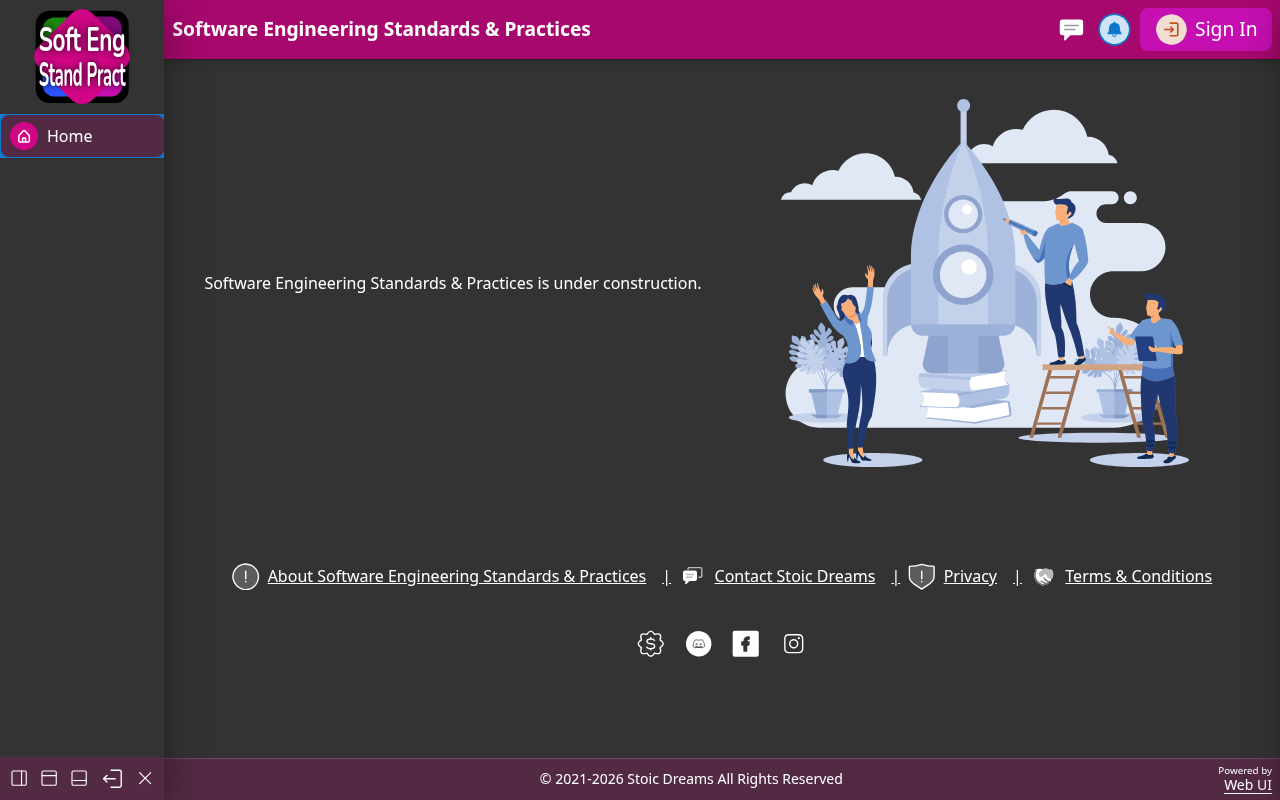
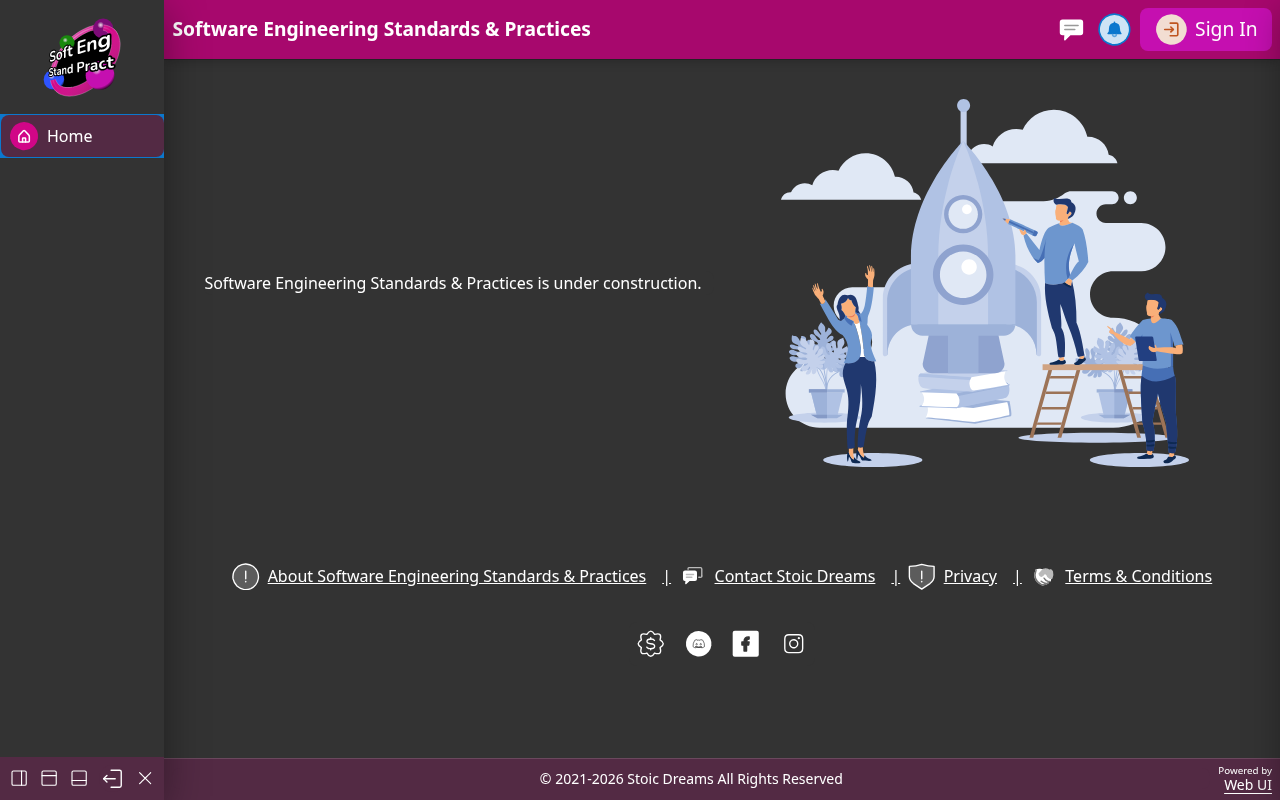
Various updates

Changed region(s): [[0.0, 0.0, 0.125, 0.1562]]

diff --git a/webapp/pages/index.html b/webapp/pages/index.html
@@ -8,7 +8,9 @@
 	<!-- Google tag (gtag.js) -->
 	<script async src="https://www.googletagmanager.com/gtag/js?id=G-ZQ38J29J0H"></script>
 	<script>
-		if (location.hostname !== 'localhost') {
+		// Pages opened on this machine or another device on the home network load Web UI from the local MyFiCDN server and skip analytics.
+		window.webuiLocal = /^(localhost|127\.0\.0\.1|\[::1\]|10(\.\d+){3}|192\.168(\.\d+){2}|172\.(1[6-9]|2\d|3[01])(\.\d+){2}|[\w-]+\.local)$/.test(location.hostname);
+		if (!webuiLocal) {
 			window.dataLayer = window.dataLayer || [];
 			function gtag() { dataLayer.push(arguments); }
 			gtag('js', new Date());
@@ -21,7 +23,7 @@
 	<meta name="robots" content="index, follow">
 	<base href="/" />
 	<script type="text/javascript">
-		navigator.serviceWorker.register('service-worker.min.js');
+		navigator.serviceWorker?.register('service-worker.min.js');
 	</script>
 
 	<link rel="dns-prefetch" href="https://cdn.myfi.ws" />
@@ -29,13 +31,14 @@
 	<link rel="preconnect" href="https://cdn.myfi.ws">
 	<link rel="preconnect" href="https://api.myfi.ws">
 
-	<link href="Logo.svg?v=faf902400f" rel="icon" type="image/svg+xml" sizes="any" />
+	<link href="Logo.svg?v=49ffcfa169" rel="icon" type="image/svg+xml" sizes="any" />
 	<link rel="manifest" href="app.webmanifest?v=48ab5d6879">
 
 	<script>
-		// Web UI loads from the local MyFiCDN server (MyFiCDN/PowerShell/RunLocal.ps1) when the site runs on localhost,
+		// Web UI loads from the local MyFiCDN server (MyFiCDN/PowerShell/RunLocal.ps1) when the site runs locally (through /webui-cdn/ on
+		// another device, which RunLocal.ps1 -Network passes on to it),
 		// so framework changes show before they are published, and from cdn.myfi.ws everywhere else.
-		window.webuiCdn = /^(localhost|127\.0\.0\.1|\[::1\])$/.test(location.hostname) ? 'http://localhost:3180/' : 'https://cdn.myfi.ws/';
+		window.webuiCdn = /^(localhost|127\.0\.0\.1|\[::1\])$/.test(location.hostname) ? 'http://localhost:3180/' : webuiLocal ? '/webui-cdn/' : 'https://cdn.myfi.ws/';
 		document.write('<link href="' + webuiCdn + 'css/webui.min.css" rel="stylesheet" />');
 	</script>
 	<link href="css/app.min.css?v=a2e2857ade" rel="stylesheet" />
@@ -83,7 +86,7 @@
 	<link rel="preload" as="script" href="https://cdn.myfi.ws/webui/stoic-dreams-logo.min.js" crossorigin="anonymous" />
 	<link rel="preload" as="script" href="https://cdn.myfi.ws/webui/stoic-social-links.min.js" crossorigin="anonymous" />
 	<link rel="preload" as="script" href="https://cdn.myfi.ws/webui/under-construction.min.js" crossorigin="anonymous" />
-	<meta name="webui-prerender" content="10d8d774d9">
+	<meta name="webui-prerender" content="d6d98fdd98">
 </head>
 
 <body>

diff --git a/webapp/pages/about.html b/webapp/pages/about.html
@@ -8,7 +8,9 @@
 	<!-- Google tag (gtag.js) -->
 	<script async src="https://www.googletagmanager.com/gtag/js?id=G-ZQ38J29J0H"></script>
 	<script>
-		if (location.hostname !== 'localhost') {
+		// Pages opened on this machine or another device on the home network load Web UI from the local MyFiCDN server and skip analytics.
+		window.webuiLocal = /^(localhost|127\.0\.0\.1|\[::1\]|10(\.\d+){3}|192\.168(\.\d+){2}|172\.(1[6-9]|2\d|3[01])(\.\d+){2}|[\w-]+\.local)$/.test(location.hostname);
+		if (!webuiLocal) {
 			window.dataLayer = window.dataLayer || [];
 			function gtag() { dataLayer.push(arguments); }
 			gtag('js', new Date());
@@ -21,7 +23,7 @@
 	<meta name="robots" content="index, follow">
 	<base href="/" />
 	<script type="text/javascript">
-		navigator.serviceWorker.register('service-worker.min.js');
+		navigator.serviceWorker?.register('service-worker.min.js');
 	</script>
 
 	<link rel="dns-prefetch" href="https://cdn.myfi.ws" />
@@ -29,13 +31,14 @@
 	<link rel="preconnect" href="https://cdn.myfi.ws">
 	<link rel="preconnect" href="https://api.myfi.ws">
 
-	<link href="Logo.svg?v=faf902400f" rel="icon" type="image/svg+xml" sizes="any" />
+	<link href="Logo.svg?v=49ffcfa169" rel="icon" type="image/svg+xml" sizes="any" />
 	<link rel="manifest" href="app.webmanifest?v=48ab5d6879">
 
 	<script>
-		// Web UI loads from the local MyFiCDN server (MyFiCDN/PowerShell/RunLocal.ps1) when the site runs on localhost,
+		// Web UI loads from the local MyFiCDN server (MyFiCDN/PowerShell/RunLocal.ps1) when the site runs locally (through /webui-cdn/ on
+		// another device, which RunLocal.ps1 -Network passes on to it),
 		// so framework changes show before they are published, and from cdn.myfi.ws everywhere else.
-		window.webuiCdn = /^(localhost|127\.0\.0\.1|\[::1\])$/.test(location.hostname) ? 'http://localhost:3180/' : 'https://cdn.myfi.ws/';
+		window.webuiCdn = /^(localhost|127\.0\.0\.1|\[::1\])$/.test(location.hostname) ? 'http://localhost:3180/' : webuiLocal ? '/webui-cdn/' : 'https://cdn.myfi.ws/';
 		document.write('<link href="' + webuiCdn + 'css/webui.min.css" rel="stylesheet" />');
 	</script>
 	<link href="css/app.min.css?v=a2e2857ade" rel="stylesheet" />
@@ -84,7 +87,7 @@
 	<link rel="preload" as="script" href="https://cdn.myfi.ws/webui/page-footer.min.js" crossorigin="anonymous" />
 	<link rel="preload" as="script" href="https://cdn.myfi.ws/webui/stoic-dreams-logo.min.js" crossorigin="anonymous" />
 	<link rel="preload" as="script" href="https://cdn.myfi.ws/webui/stoic-social-links.min.js" crossorigin="anonymous" />
-	<meta name="webui-prerender" content="00adf94309">
+	<meta name="webui-prerender" content="e0ee5c0330">
 </head>
 
 <body>

diff --git a/webapp/pages/contact.html b/webapp/pages/contact.html
@@ -8,7 +8,9 @@
 	<!-- Google tag (gtag.js) -->
 	<script async src="https://www.googletagmanager.com/gtag/js?id=G-ZQ38J29J0H"></script>
 	<script>
-		if (location.hostname !== 'localhost') {
+		// Pages opened on this machine or another device on the home network load Web UI from the local MyFiCDN server and skip analytics.
+		window.webuiLocal = /^(localhost|127\.0\.0\.1|\[::1\]|10(\.\d+){3}|192\.168(\.\d+){2}|172\.(1[6-9]|2\d|3[01])(\.\d+){2}|[\w-]+\.local)$/.test(location.hostname);
+		if (!webuiLocal) {
 			window.dataLayer = window.dataLayer || [];
 			function gtag() { dataLayer.push(arguments); }
 			gtag('js', new Date());
@@ -21,7 +23,7 @@
 	<meta name="robots" content="index, follow">
 	<base href="/" />
 	<script type="text/javascript">
-		navigator.serviceWorker.register('service-worker.min.js');
+		navigator.serviceWorker?.register('service-worker.min.js');
 	</script>
 
 	<link rel="dns-prefetch" href="https://cdn.myfi.ws" />
@@ -29,13 +31,14 @@
 	<link rel="preconnect" href="https://cdn.myfi.ws">
 	<link rel="preconnect" href="https://api.myfi.ws">
 
-	<link href="Logo.svg?v=faf902400f" rel="icon" type="image/svg+xml" sizes="any" />
+	<link href="Logo.svg?v=49ffcfa169" rel="icon" type="image/svg+xml" sizes="any" />
 	<link rel="manifest" href="app.webmanifest?v=48ab5d6879">
 
 	<script>
-		// Web UI loads from the local MyFiCDN server (MyFiCDN/PowerShell/RunLocal.ps1) when the site runs on localhost,
+		// Web UI loads from the local MyFiCDN server (MyFiCDN/PowerShell/RunLocal.ps1) when the site runs locally (through /webui-cdn/ on
+		// another device, which RunLocal.ps1 -Network passes on to it),
 		// so framework changes show before they are published, and from cdn.myfi.ws everywhere else.
-		window.webuiCdn = /^(localhost|127\.0\.0\.1|\[::1\])$/.test(location.hostname) ? 'http://localhost:3180/' : 'https://cdn.myfi.ws/';
+		window.webuiCdn = /^(localhost|127\.0\.0\.1|\[::1\])$/.test(location.hostname) ? 'http://localhost:3180/' : webuiLocal ? '/webui-cdn/' : 'https://cdn.myfi.ws/';
 		document.write('<link href="' + webuiCdn + 'css/webui.min.css" rel="stylesheet" />');
 	</script>
 	<link href="css/app.min.css?v=a2e2857ade" rel="stylesheet" />
@@ -84,7 +87,7 @@
 	<link rel="preload" as="script" href="https://cdn.myfi.ws/webui/page-footer.min.js" crossorigin="anonymous" />
 	<link rel="preload" as="script" href="https://cdn.myfi.ws/webui/stoic-dreams-logo.min.js" crossorigin="anonymous" />
 	<link rel="preload" as="script" href="https://cdn.myfi.ws/webui/stoic-social-links.min.js" crossorigin="anonymous" />
-	<meta name="webui-prerender" content="fd37e75aee">
+	<meta name="webui-prerender" content="c51ac0f765">
 </head>
 
 <body>

diff --git a/webapp/pages/privacy.html b/webapp/pages/privacy.html
@@ -8,7 +8,9 @@
 	<!-- Google tag (gtag.js) -->
 	<script async src="https://www.googletagmanager.com/gtag/js?id=G-ZQ38J29J0H"></script>
 	<script>
-		if (location.hostname !== 'localhost') {
+		// Pages opened on this machine or another device on the home network load Web UI from the local MyFiCDN server and skip analytics.
+		window.webuiLocal = /^(localhost|127\.0\.0\.1|\[::1\]|10(\.\d+){3}|192\.168(\.\d+){2}|172\.(1[6-9]|2\d|3[01])(\.\d+){2}|[\w-]+\.local)$/.test(location.hostname);
+		if (!webuiLocal) {
 			window.dataLayer = window.dataLayer || [];
 			function gtag() { dataLayer.push(arguments); }
 			gtag('js', new Date());
@@ -21,7 +23,7 @@
 	<meta name="robots" content="index, follow">
 	<base href="/" />
 	<script type="text/javascript">
-		navigator.serviceWorker.register('service-worker.min.js');
+		navigator.serviceWorker?.register('service-worker.min.js');
 	</script>
 
 	<link rel="dns-prefetch" href="https://cdn.myfi.ws" />
@@ -29,13 +31,14 @@
 	<link rel="preconnect" href="https://cdn.myfi.ws">
 	<link rel="preconnect" href="https://api.myfi.ws">
 
-	<link href="Logo.svg?v=faf902400f" rel="icon" type="image/svg+xml" sizes="any" />
+	<link href="Logo.svg?v=49ffcfa169" rel="icon" type="image/svg+xml" sizes="any" />
 	<link rel="manifest" href="app.webmanifest?v=48ab5d6879">
 
 	<script>
-		// Web UI loads from the local MyFiCDN server (MyFiCDN/PowerShell/RunLocal.ps1) when the site runs on localhost,
+		// Web UI loads from the local MyFiCDN server (MyFiCDN/PowerShell/RunLocal.ps1) when the site runs locally (through /webui-cdn/ on
+		// another device, which RunLocal.ps1 -Network passes on to it),
 		// so framework changes show before they are published, and from cdn.myfi.ws everywhere else.
-		window.webuiCdn = /^(localhost|127\.0\.0\.1|\[::1\])$/.test(location.hostname) ? 'http://localhost:3180/' : 'https://cdn.myfi.ws/';
+		window.webuiCdn = /^(localhost|127\.0\.0\.1|\[::1\])$/.test(location.hostname) ? 'http://localhost:3180/' : webuiLocal ? '/webui-cdn/' : 'https://cdn.myfi.ws/';
 		document.write('<link href="' + webuiCdn + 'css/webui.min.css" rel="stylesheet" />');
 	</script>
 	<link href="css/app.min.css?v=a2e2857ade" rel="stylesheet" />
@@ -84,7 +87,7 @@
 	<link rel="preload" as="script" href="https://cdn.myfi.ws/webui/page-footer.min.js" crossorigin="anonymous" />
 	<link rel="preload" as="script" href="https://cdn.myfi.ws/webui/stoic-dreams-logo.min.js" crossorigin="anonymous" />
 	<link rel="preload" as="script" href="https://cdn.myfi.ws/webui/stoic-social-links.min.js" crossorigin="anonymous" />
-	<meta name="webui-prerender" content="f09d446f53">
+	<meta name="webui-prerender" content="75a60567ae">
 </head>
 
 <body>

diff --git a/webapp/pages/terms.html b/webapp/pages/terms.html
@@ -8,7 +8,9 @@
 	<!-- Google tag (gtag.js) -->
 	<script async src="https://www.googletagmanager.com/gtag/js?id=G-ZQ38J29J0H"></script>
 	<script>
-		if (location.hostname !== 'localhost') {
+		// Pages opened on this machine or another device on the home network load Web UI from the local MyFiCDN server and skip analytics.
+		window.webuiLocal = /^(localhost|127\.0\.0\.1|\[::1\]|10(\.\d+){3}|192\.168(\.\d+){2}|172\.(1[6-9]|2\d|3[01])(\.\d+){2}|[\w-]+\.local)$/.test(location.hostname);
+		if (!webuiLocal) {
 			window.dataLayer = window.dataLayer || [];
 			function gtag() { dataLayer.push(arguments); }
 			gtag('js', new Date());
@@ -21,7 +23,7 @@
 	<meta name="robots" content="index, follow">
 	<base href="/" />
 	<script type="text/javascript">
-		navigator.serviceWorker.register('service-worker.min.js');
+		navigator.serviceWorker?.register('service-worker.min.js');
 	</script>
 
 	<link rel="dns-prefetch" href="https://cdn.myfi.ws" />
@@ -29,13 +31,14 @@
 	<link rel="preconnect" href="https://cdn.myfi.ws">
 	<link rel="preconnect" href="https://api.myfi.ws">
 
-	<link href="Logo.svg?v=faf902400f" rel="icon" type="image/svg+xml" sizes="any" />
+	<link href="Logo.svg?v=49ffcfa169" rel="icon" type="image/svg+xml" sizes="any" />
 	<link rel="manifest" href="app.webmanifest?v=48ab5d6879">
 
 	<script>
-		// Web UI loads from the local MyFiCDN server (MyFiCDN/PowerShell/RunLocal.ps1) when the site runs on localhost,
+		// Web UI loads from the local MyFiCDN server (MyFiCDN/PowerShell/RunLocal.ps1) when the site runs locally (through /webui-cdn/ on
+		// another device, which RunLocal.ps1 -Network passes on to it),
 		// so framework changes show before they are published, and from cdn.myfi.ws everywhere else.
-		window.webuiCdn = /^(localhost|127\.0\.0\.1|\[::1\])$/.test(location.hostname) ? 'http://localhost:3180/' : 'https://cdn.myfi.ws/';
+		window.webuiCdn = /^(localhost|127\.0\.0\.1|\[::1\])$/.test(location.hostname) ? 'http://localhost:3180/' : webuiLocal ? '/webui-cdn/' : 'https://cdn.myfi.ws/';
 		document.write('<link href="' + webuiCdn + 'css/webui.min.css" rel="stylesheet" />');
 	</script>
 	<link href="css/app.min.css?v=a2e2857ade" rel="stylesheet" />
@@ -84,7 +87,7 @@
 	<link rel="preload" as="script" href="https://cdn.myfi.ws/webui/page-footer.min.js" crossorigin="anonymous" />
 	<link rel="preload" as="script" href="https://cdn.myfi.ws/webui/stoic-dreams-logo.min.js" crossorigin="anonymous" />
 	<link rel="preload" as="script" href="https://cdn.myfi.ws/webui/stoic-social-links.min.js" crossorigin="anonymous" />
-	<meta name="webui-prerender" content="6397f9cf5c">
+	<meta name="webui-prerender" content="93233c4466">
 </head>
 
 <body>

diff --git a/webapp/root_files/service-worker.min.js b/webapp/root_files/service-worker.min.js
@@ -1,1 +1,1 @@
-self.addEventListener("install",t=>t.waitUntil(onInstall(t))),self.addEventListener("activate",t=>t.waitUntil(onActivate(t))),self.addEventListener("fetch",t=>{const e=new URL(t.request.url);e.protocol==="ipc:"||e.protocol==="tauri:"||e.hostname==="ipc.localhost"||e.hostname==="tauri.localhost"||e.hostname.startsWith("127")||e.hostname==="localhost"||t.request.url.startsWith("http")&&allowCache(t.request)&&t.respondWith(onFetch(t))});const currentVersion="0.1.23",cacheNamePrefix="offline-cache-",cacheName=`${cacheNamePrefix}${currentVersion}`;async function onInstall(t){self.skipWaiting()}async function onActivate(t){const e=await caches.keys();await Promise.all(e.filter(a=>a.startsWith(cacheNamePrefix)&&a!==cacheName).map(a=>caches.delete(a))),await self.clients.claim()}async function onFetch(t){const e=await caches.open(cacheName);let a;try{a=await fetch(applyCacheBusting(t.request))}catch(n){const c=await e.match(t.request);if(c)return c;throw n}return a.ok?(t.waitUntil(e.put(t.request,a.clone()).catch(()=>{})),a):await e.match(t.request)||a}function applyCacheBusting(t){try{const e=new URL(t.url);return e.searchParams.set("_",Date.now()),new Request(e.toString(),t)}catch{return t}}function allowCache(t){return!(t.method!=="GET"||t.mode==="navigate")}
+self.addEventListener("install",t=>t.waitUntil(onInstall(t))),self.addEventListener("activate",t=>t.waitUntil(onActivate(t))),self.addEventListener("fetch",t=>{const e=new URL(t.request.url);e.protocol==="ipc:"||e.protocol==="tauri:"||e.hostname==="ipc.localhost"||e.hostname==="tauri.localhost"||e.hostname.startsWith("127")||e.hostname==="localhost"||t.request.url.startsWith("http")&&allowCache(t.request)&&t.respondWith(onFetch(t))});const currentVersion="0.1.24",cacheNamePrefix="offline-cache-",cacheName=`${cacheNamePrefix}${currentVersion}`;async function onInstall(t){self.skipWaiting()}async function onActivate(t){const e=await caches.keys();await Promise.all(e.filter(a=>a.startsWith(cacheNamePrefix)&&a!==cacheName).map(a=>caches.delete(a))),await self.clients.claim()}async function onFetch(t){const e=await caches.open(cacheName);let a;try{a=await fetch(applyCacheBusting(t.request))}catch(n){const c=await e.match(t.request);if(c)return c;throw n}return a.ok?(t.waitUntil(e.put(t.request,a.clone()).catch(()=>{})),a):await e.match(t.request)||a}function applyCacheBusting(t){try{const e=new URL(t.url);return e.searchParams.set("_",Date.now()),new Request(e.toString(),t)}catch{return t}}function allowCache(t){return!(t.method!=="GET"||t.mode==="navigate")}

diff --git a/webapp/index.html b/webapp/index.html
@@ -8,7 +8,9 @@
 	<!-- Google tag (gtag.js) -->
 	<script async src="https://www.googletagmanager.com/gtag/js?id=G-ZQ38J29J0H"></script>
 	<script>
-		if (location.hostname !== 'localhost') {
+		// Pages opened on this machine or another device on the home network load Web UI from the local MyFiCDN server and skip analytics.
+		window.webuiLocal = /^(localhost|127\.0\.0\.1|\[::1\]|10(\.\d+){3}|192\.168(\.\d+){2}|172\.(1[6-9]|2\d|3[01])(\.\d+){2}|[\w-]+\.local)$/.test(location.hostname);
+		if (!webuiLocal) {
 			window.dataLayer = window.dataLayer || [];
 			function gtag() { dataLayer.push(arguments); }
 			gtag('js', new Date());
@@ -21,7 +23,7 @@
 	<meta name="robots" content="index, follow">
 	<base href="/" />
 	<script type="text/javascript">
-		navigator.serviceWorker.register('service-worker.min.js');
+		navigator.serviceWorker?.register('service-worker.min.js');
 	</script>
 
 	<link rel="dns-prefetch" href="https://cdn.myfi.ws" />
@@ -33,9 +35,10 @@
 	<link rel="manifest" href="app.webmanifest">
 
 	<script>
-		// Web UI loads from the local MyFiCDN server (MyFiCDN/PowerShell/RunLocal.ps1) when the site runs on localhost,
+		// Web UI loads from the local MyFiCDN server (MyFiCDN/PowerShell/RunLocal.ps1) when the site runs locally (through /webui-cdn/ on
+		// another device, which RunLocal.ps1 -Network passes on to it),
 		// so framework changes show before they are published, and from cdn.myfi.ws everywhere else.
-		window.webuiCdn = /^(localhost|127\.0\.0\.1|\[::1\])$/.test(location.hostname) ? 'http://localhost:3180/' : 'https://cdn.myfi.ws/';
+		window.webuiCdn = /^(localhost|127\.0\.0\.1|\[::1\])$/.test(location.hostname) ? 'http://localhost:3180/' : webuiLocal ? '/webui-cdn/' : 'https://cdn.myfi.ws/';
 		document.write('<link href="' + webuiCdn + 'css/webui.min.css" rel="stylesheet" />');
 	</script>
 	<link href="css/app.min.css" rel="stylesheet" />

diff --git a/webapp/root_files/service-worker.js b/webapp/root_files/service-worker.js
@@ -20,7 +20,7 @@ self.addEventListener('fetch', event => {
     }
     event.respondWith(onFetch(event))
 });
-const currentVersion = '0.1.23';
+const currentVersion = '0.1.24';
 const cacheNamePrefix = 'offline-cache-';
 const cacheName = `${cacheNamePrefix}${currentVersion}`;
 async function onInstall(event) {

diff --git a/.taskproxy/pages/1de662b0-d027-4613-bab9-c8029a266b4a.md b/.taskproxy/pages/1de662b0-d027-4613-bab9-c8029a266b4a.md
@@ -6,7 +6,13 @@
 
 Run Software Engineering Standards & Practices. The script lists any missing tools before building. Rust build output goes to `D:\CargoTargets` on Windows, or `~/CargoTargets` elsewhere.
 
-Run Software Engineering Standards & Practices at http://localhost:8105
+Run Software Engineering Standards & Practices at http://localhost:8105, and on the network at the address it prints, for your phone or laptop
+
+```pwsh
+./PowerShell/RunLocal.ps1 -Network
+```
+
+Run it for this machine only
 
 ```pwsh
 ./PowerShell/RunLocal.ps1
@@ -15,13 +21,13 @@ Run Software Engineering Standards & Practices at http://localhost:8105
 Run on a different port
 
 ```pwsh
-./PowerShell/RunLocal.ps1 -Port 8205
+./PowerShell/RunLocal.ps1 -Port 8205 -Network
 ```
 
 Clean the Rust build, then run
 
 ```pwsh
-./PowerShell/RunLocal.ps1 -clean
+./PowerShell/RunLocal.ps1 -clean -Network
 ```
 
 Build the Rust code without starting the site

diff --git a/Docs/README.md b/Docs/README.md
@@ -1,6 +1,6 @@
 # Software Engineering Standards & Practices
 
-[Version: 0.1.23](https://github.com/StoicDreams/SESPTech)
+[Version: 0.1.24](https://github.com/StoicDreams/SESPTech)
 
 [WebUI](https://github.com/StoicDreams/WebUI)
 
